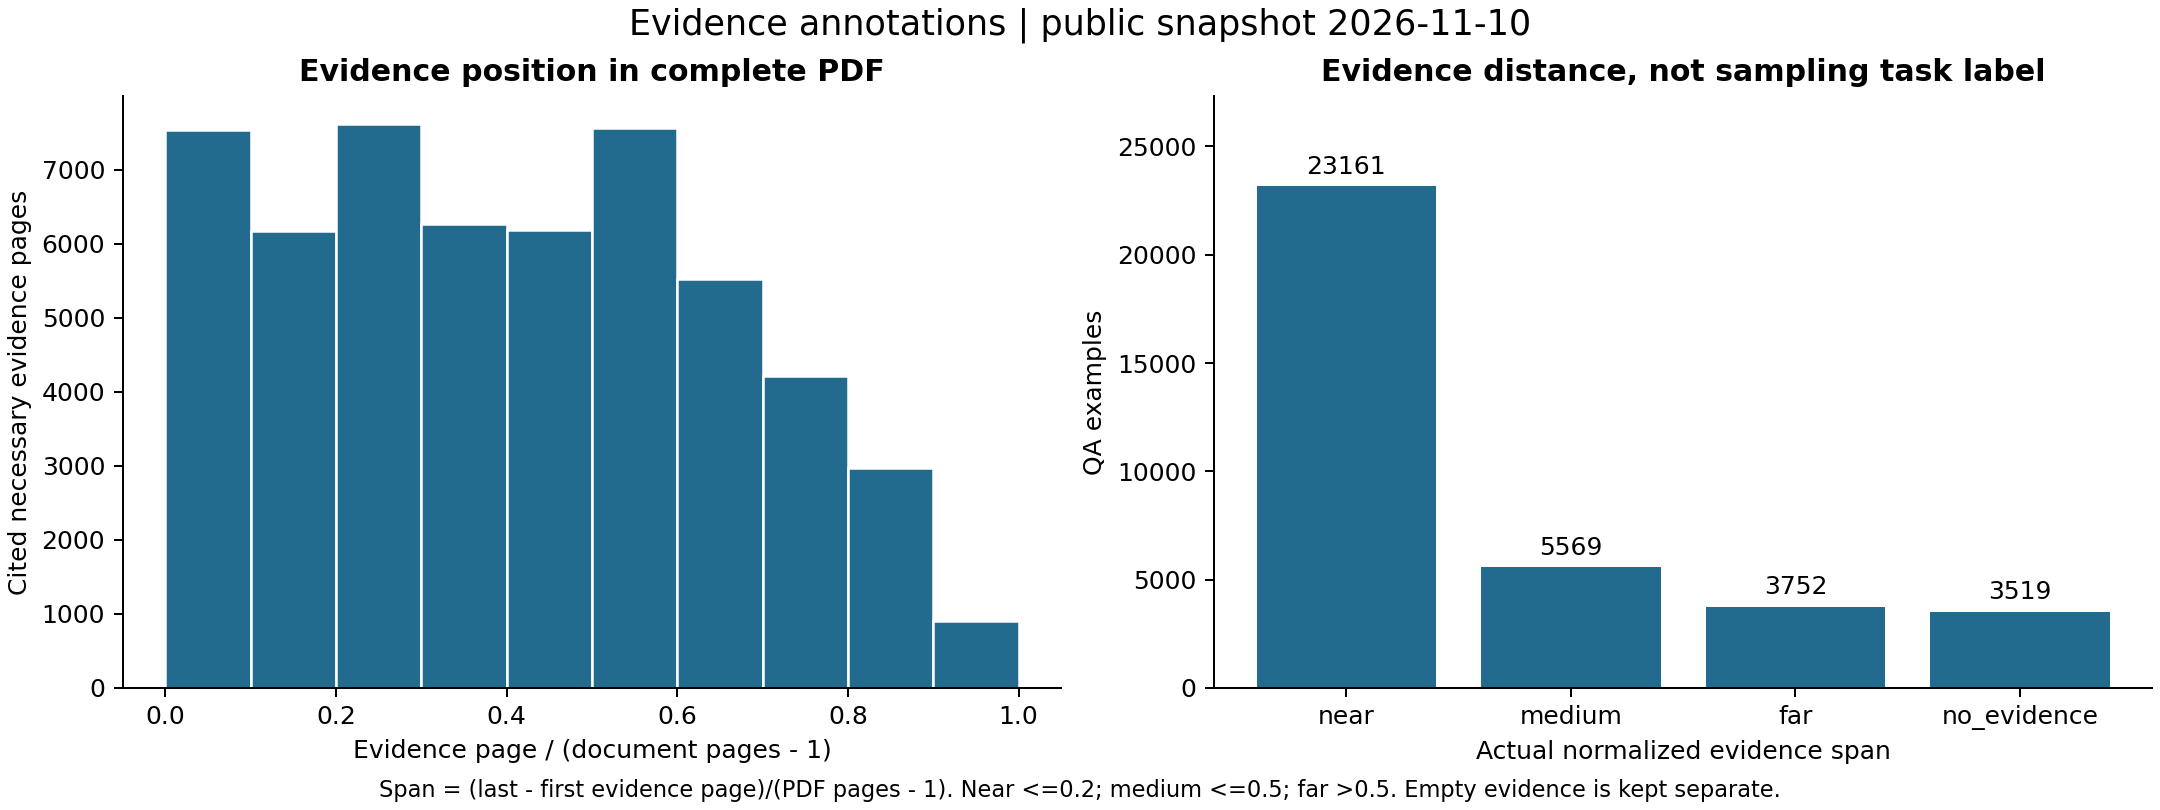
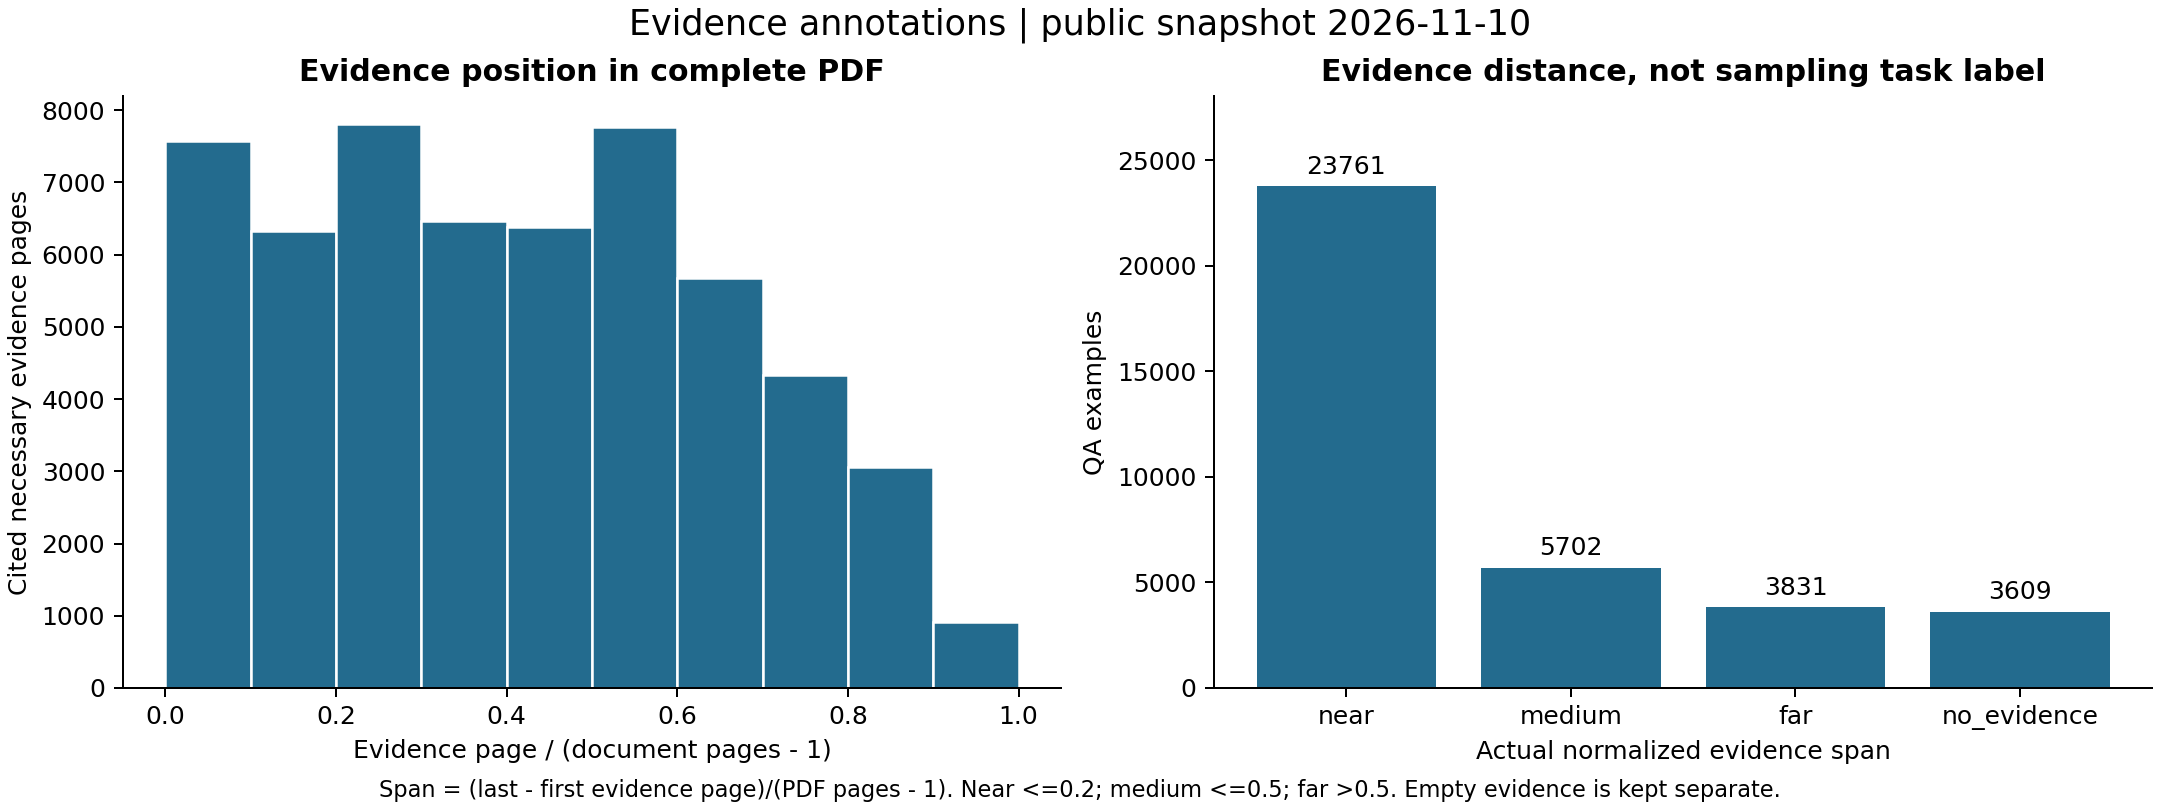
Update public corpus statistics to 2.221B measured tokens

diff --git a/docs/public_dataset.md b/docs/public_dataset.md
@@ -13,26 +13,26 @@ This page describes the admitted public snapshot identified below. It is a separ
 The manuscript defines binary prefixes (K=1024, B=2^30). Public tables use decimal K=1,000 and B=1,000,000,000; the >=100Ki statistic uses 102,400 to match the paper threshold. Exact raw counts and per-document labels are published with the dataset.
 
 <!-- PUBLIC_CORPUS_STATS_START -->
-**Public snapshot (2026-11-10): 36,001 QA examples, 6,452 source PDFs, 148,826 unique page images, and 2,173,240,659 estimated training tokens (approximately 2.173B).**
+**Public snapshot (2026-11-10): 36,903 QA examples, 6,949 source PDFs, 159,098 unique page images, and 2,220,596,718 estimated training tokens (approximately 2.221B).**
 
-[This published snapshot](https://huggingface.co/datasets/ZhaoweiWang/MMProLong-Data-Public/tree/17c37b6e12882da04af048143580f9ca9325c6bf); [latest data](https://huggingface.co/datasets/ZhaoweiWang/MMProLong-Data-Public).
+[This published snapshot](https://huggingface.co/datasets/ZhaoweiWang/MMProLong-Data-Public/tree/01fedbbd569eb5d85a049d7fc96de157c3b404a0); [latest data](https://huggingface.co/datasets/ZhaoweiWang/MMProLong-Data-Public).
 
 ### Corpus scale
 
 | Statistic | Public snapshot value |
 | --- | --- |
-| Admitted unique PDFs | 6,452 |
+| Admitted unique PDFs | 6,949 |
 | Document family | Public research papers |
-| Unique rendered page images | 148,826 |
-| Document pages: mean / median | 23.07 / 21 |
+| Unique rendered page images | 159,098 |
+| Document pages: mean / median | 22.90 / 21 |
 | Document pages: range / 5th-95th percentile | 14-50 / 14-40 |
-| Admitted QA examples | 36,001 |
-| Estimated training tokens | 2,173,240,659 (2.173B) |
-| Per-QA tokens: mean / median | 60.366K / 53.338K |
+| Admitted QA examples | 36,903 |
+| Estimated training tokens | 2,220,596,718 (2.221B) |
+| Per-QA tokens: mean / median | 60.174K / 53.313K |
 | Observed token range | 33,547-125,503 |
-| At least 100,000 tokens | 2,609 (7.25%) |
-| At least 100Ki = 102,400 tokens (paper threshold) | 2,189 (6.08%) |
-| Page references across all QA contexts | 855,407 |
+| At least 100,000 tokens | 2,609 (7.07%) |
+| At least 100Ki = 102,400 tokens (paper threshold) | 2,189 (5.93%) |
+| Page references across all QA contexts | 874,074 |
 
 ### Document sources
 
@@ -40,7 +40,7 @@ The manuscript defines binary prefixes (K=1024, B=2^30). Public tables use decim
 | --- | --- |
 | arxiv | 4,386 |
 | elife | 20 |
-| plos | 2,046 |
+| plos | 2,543 |
 
 Tokens are the stored Qwen2.5-VL serialized-sample estimate, including full page-image context and QA/prompt text. A PDF used by several questions contributes its context repeatedly to the training-token total. This is not a count of unique-text tokens or billed API tokens. Page images are physically stored once per document.
 
@@ -50,12 +50,12 @@ Tokens are the stored Qwen2.5-VL serialized-sample estimate, including full page
 
 | Task | QA | Avg. pages | Avg. K tokens | B tokens | Pages | K-token range | >=100Ki |
 | --- | --- | --- | --- | --- | --- | --- | --- |
-| `single` | 13,041 | 23.63 | 60.02 | 0.783 | 14-50 | 33.80-125.13 | 6.03% |
-| `multi_local` | 6,441 | 23.82 | 60.60 | 0.390 | 14-50 | 33.85-125.50 | 6.04% |
-| `multi_distributed` | 6,497 | 23.70 | 60.24 | 0.391 | 14-50 | 33.84-125.29 | 6.08% |
-| `reasoning` | 6,503 | 23.70 | 60.18 | 0.391 | 14-50 | 33.55-125.11 | 5.80% |
-| `unanswerable` | 3,519 | 24.34 | 61.80 | 0.217 | 14-50 | 33.79-125.09 | 6.88% |
-| **Total** | 36,001 | 23.76 | 60.37 | 2.173 | 14-50 | 33.55-125.50 | 6.08% |
+| `single` | 13,367 | 23.55 | 59.81 | 0.799 | 14-50 | 33.80-125.13 | 5.88% |
+| `multi_local` | 6,607 | 23.76 | 60.44 | 0.399 | 14-50 | 33.85-125.50 | 5.89% |
+| `multi_distributed` | 6,654 | 23.63 | 60.08 | 0.400 | 14-50 | 33.84-125.29 | 5.94% |
+| `reasoning` | 6,666 | 23.62 | 59.98 | 0.400 | 14-50 | 33.55-125.11 | 5.66% |
+| `unanswerable` | 3,609 | 24.25 | 61.56 | 0.222 | 14-50 | 33.79-125.09 | 6.71% |
+| **Total** | 36,903 | 23.69 | 60.17 | 2.221 | 14-50 | 33.55-125.50 | 5.93% |
 
 `K = 1,000`, `B = 1,000,000,000`; `100Ki = 102,400` tokens. Average pages in this table are **QA-weighted**, whereas the corpus-scale document average counts each PDF once. The two multi-page rows may be combined for comparison with the paper's broader extraction category. Unanswerable QA is an additional public-data task. Exact values, quantiles, and the combined task grouping are in [`metadata/statistics.json`](https://huggingface.co/datasets/ZhaoweiWang/MMProLong-Data-Public/blob/main/metadata/statistics.json).
 
@@ -65,17 +65,17 @@ Tokens are the stored Qwen2.5-VL serialized-sample estimate, including full page
 
 | Primary domain | Documents | Document share | QA | QA share |
 | --- | --- | --- | --- | --- |
-| Physics | 1,321 | 20.47% | 9,282 | 25.78% |
-| Mathematics | 1,226 | 19.00% | 8,806 | 24.46% |
-| Computer Science | 1,194 | 18.51% | 9,055 | 25.15% |
-| Biology | 525 | 8.14% | 1,124 | 3.12% |
-| Medicine | 487 | 7.55% | 1,264 | 3.51% |
-| Social Science | 470 | 7.28% | 1,347 | 3.74% |
-| Economics | 453 | 7.02% | 1,319 | 3.66% |
-| Engineering | 447 | 6.93% | 2,815 | 7.82% |
-| Earth Science | 310 | 4.80% | 892 | 2.48% |
-| Language and Literature | 11 | 0.17% | 41 | 0.11% |
-| Other | 8 | 0.12% | 56 | 0.16% |
+| Physics | 1,322 | 19.02% | 9,284 | 25.16% |
+| Mathematics | 1,231 | 17.71% | 8,816 | 23.89% |
+| Computer Science | 1,209 | 17.40% | 9,082 | 24.61% |
+| Biology | 631 | 9.08% | 1,316 | 3.57% |
+| Medicine | 573 | 8.25% | 1,415 | 3.83% |
+| Social Science | 544 | 7.83% | 1,478 | 4.01% |
+| Economics | 542 | 7.80% | 1,481 | 4.01% |
+| Engineering | 531 | 7.64% | 2,972 | 8.05% |
+| Earth Science | 346 | 4.98% | 960 | 2.60% |
+| Language and Literature | 12 | 0.17% | 43 | 0.12% |
+| Other | 8 | 0.12% | 56 | 0.15% |
 
 Document and QA shares differ because historical phases generated different numbers of questions per PDF. Domain labels describe the source PDF, not a separate topic inferred for each question.
 
@@ -83,21 +83,21 @@ Document and QA shares differ because historical phases generated different numb
 
 | Answer format | QA | Share |
 | --- | --- | --- |
-| Integer | 5,427 | 15.07% |
-| Float | 2,126 | 5.91% |
-| List | 12,205 | 33.90% |
-| String | 12,724 | 35.34% |
-| Unanswerable | 3,519 | 9.77% |
+| Integer | 5,549 | 15.04% |
+| Float | 2,265 | 6.14% |
+| List | 12,582 | 34.09% |
+| String | 12,898 | 34.95% |
+| Unanswerable | 3,609 | 9.78% |
 
-There are **32,482 answerable** and **3,519 unanswerable** QA examples. The observed necessary-evidence page counts are: 0 pages: 3,519, 1 pages: 16,397, 2 pages: 10,812, 3 pages: 4,184, 4 pages: 1,084, 5 pages: 3, 6 pages: 1, 7 pages: 1.
+There are **33,294 answerable** and **3,609 unanswerable** QA examples. The observed necessary-evidence page counts are: 0 pages: 3,609, 1 pages: 16,799, 2 pages: 11,123, 3 pages: 4,250, 4 pages: 1,115, 5 pages: 5, 6 pages: 1, 7 pages: 1.
 
 <details>
 <summary>Observed QA count per source document</summary>
 
 | QA per document | Documents |
 | --- | --- |
-| 1 | 613 |
-| 2 | 3,432 |
+| 1 | 705 |
+| 2 | 3,837 |
 | 6 | 1 |
 | 8 | 1 |
 | 9 | 7 |
@@ -115,8 +115,8 @@ The 20-QA documents belong to the initial pilot; the two-QA limit applies to the
 | Recorded method | QA |
 | --- | --- |
 | legacy_full_document | 32,432 |
-| released_prompt_window_v1 | 2,227 |
-| document_tool_agent_v1 | 1,342 |
+| released_prompt_window_v1 | 2,799 |
+| document_tool_agent_v1 | 1,672 |
 
 ### Domain-label provenance
 
@@ -125,18 +125,18 @@ The 20-QA documents belong to the initial pilot; the two-QA limit applies to the
 | majority of full-context generator domain labels | 4,330 |
 | arXiv primary category mapping | 113 |
 | manual primary-topic classification for validated pilot batches | 9 |
-| majority of independent full-document verifier topic labels | 1,948 |
-| Crossref subject-query sampling; provisional until generator topic vote | 52 |
+| majority of independent full-document verifier topic labels | 2,432 |
+| Crossref subject-query sampling; provisional until generator topic vote | 65 |
 
 ## Document language
 
 | Estimated document language | Documents | Document share | Associated QA |
 | --- | --- | --- | --- |
-| English (`en`) | 6,447 | 99.923% | 35,961 |
-| Spanish (`es`) | 2 | 0.031% | 14 |
-| French (`fr`) | 1 | 0.015% | 2 |
-| Russian (`ru`) | 1 | 0.015% | 12 |
-| Chinese (`zh`) | 1 | 0.015% | 12 |
+| English (`en`) | 6,944 | 99.928% | 36,863 |
+| Spanish (`es`) | 2 | 0.029% | 14 |
+| French (`fr`) | 1 | 0.014% | 2 |
+| Russian (`ru`) | 1 | 0.014% | 12 |
+| Chinese (`zh`) | 1 | 0.014% | 12 |
 
 Language labels are automatic estimates from sampled embedded PDF text; non-English/uncertain predictions receive a prose-filter recheck. They are not human-verified. Method, sampled pages, scores and recheck provenance are retained with each document.
 
@@ -144,14 +144,14 @@ Language labels are automatic estimates from sampled embedded PDF text; non-Engl
 
 | Recorded generation model | Documents | QA | QA share | B training tokens |
 | --- | --- | --- | --- | --- |
-| `gpt-5.5-2026-04-24` | 2,407 | 28,524 | 79.23% | 1.745 |
-| `gpt-5.6-sol` | 4,045 | 7,477 | 20.77% | 0.429 |
+| `gpt-5.5-2026-04-24` | 2,407 | 28,524 | 77.29% | 1.745 |
+| `gpt-5.6-sol` | 4,542 | 8,379 | 22.71% | 0.476 |
 
 | Phase | Documents | QA | Maximum QA per document |
 | --- | --- | --- | --- |
 | Initial pilot (GPT-5.5) | 4 | 80 | 20 |
 | GPT-5.5 production | 2,403 | 28,444 | 12 |
-| Current GPT-5.6 production | 4,045 | 7,477 | 2 |
+| Current GPT-5.6 production | 4,542 | 8,379 | 2 |
 
 The current snapshot is a **mixed-model historical release**, not an all-GPT-5.6 corpus. Use the `model` field when a model-specific subset is required.
 

diff --git a/README.md b/README.md
@@ -40,7 +40,7 @@ Please check out the [paper](https://arxiv.org/abs/2605.13831) for the study and
 ## 📢 Latest Updates
 
 <!-- PUBLIC_CORPUS_SUMMARY_START -->
-**Public snapshot (2026-11-10): 36,001 QA examples, 6,452 source PDFs, 148,826 unique page images, and 2,173,240,659 estimated training tokens (approximately 2.173B).**
+**Public snapshot (2026-11-10): 36,903 QA examples, 6,949 source PDFs, 159,098 unique page images, and 2,220,596,718 estimated training tokens (approximately 2.221B).**
 
 [Dataset](https://huggingface.co/datasets/ZhaoweiWang/MMProLong-Data-Public) | [Statistics](docs/public_dataset.md)
 <!-- PUBLIC_CORPUS_SUMMARY_END -->
